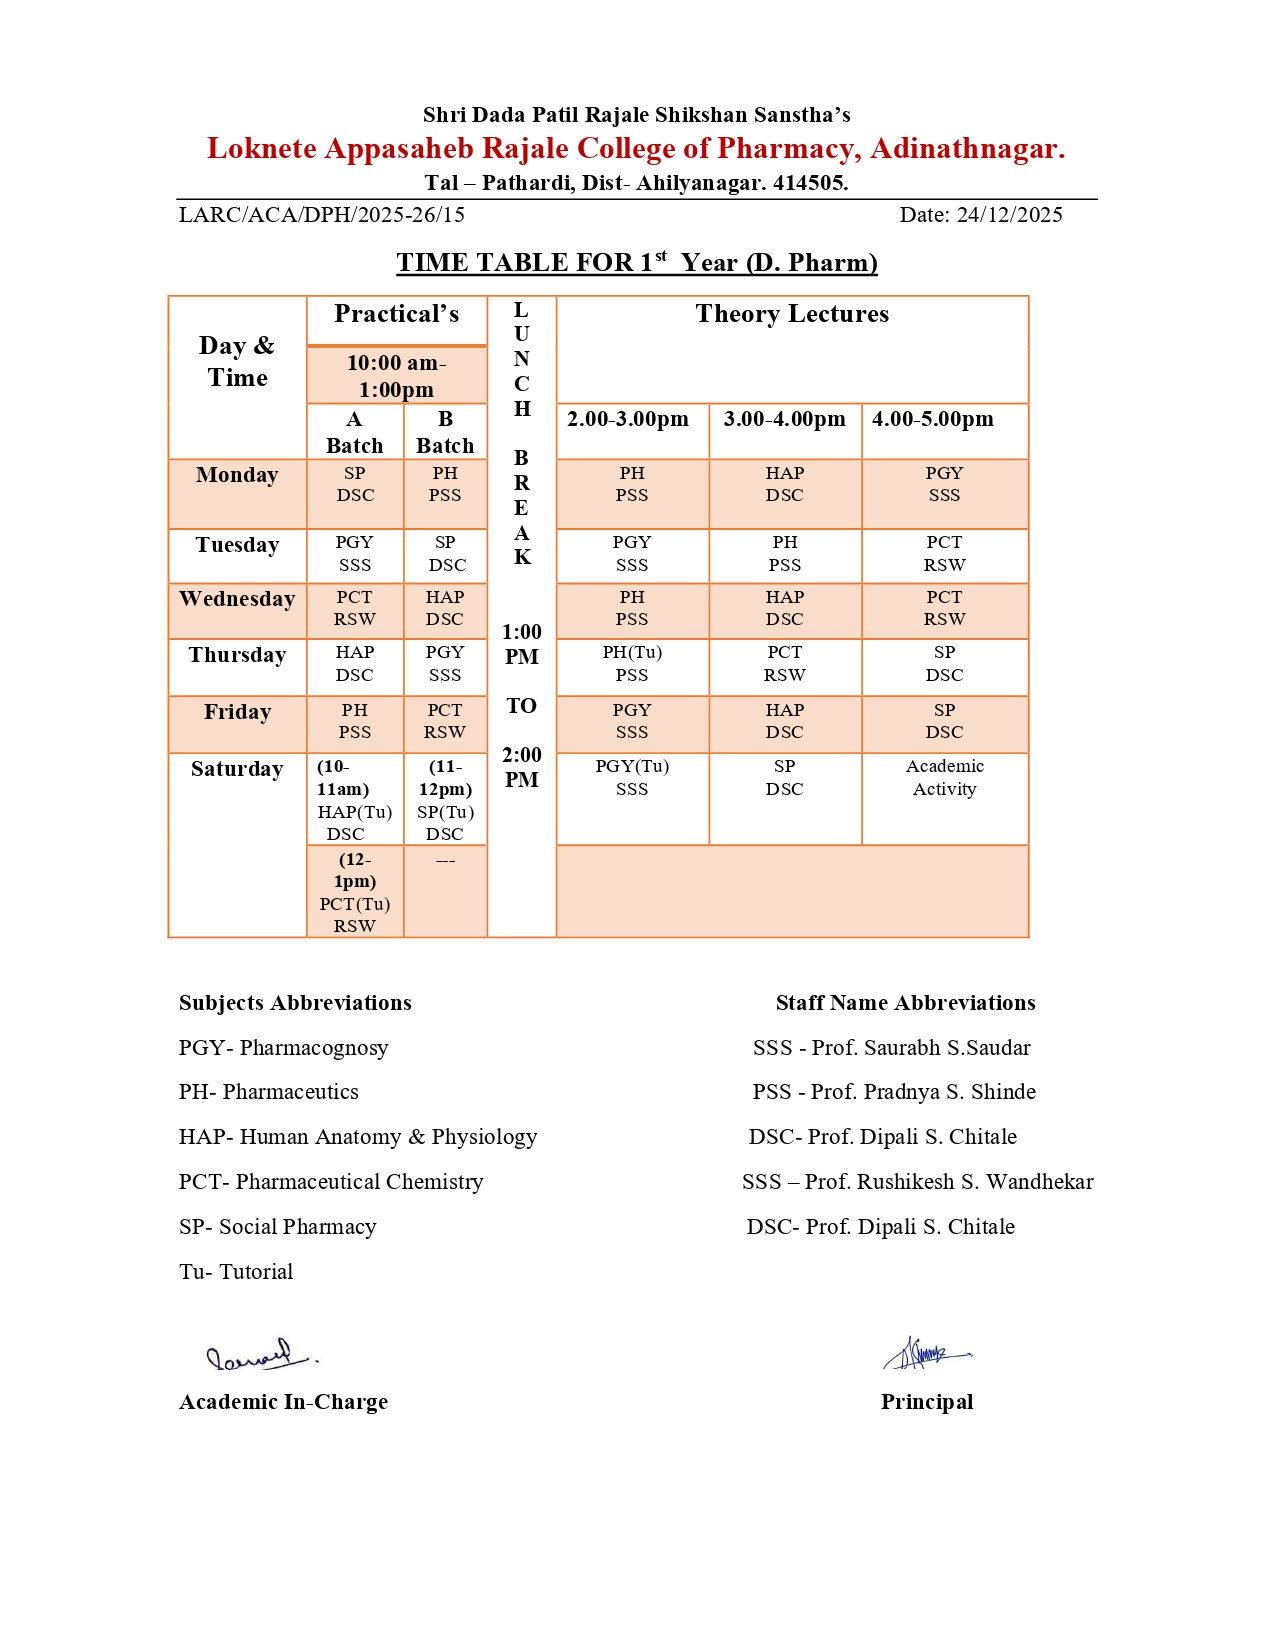
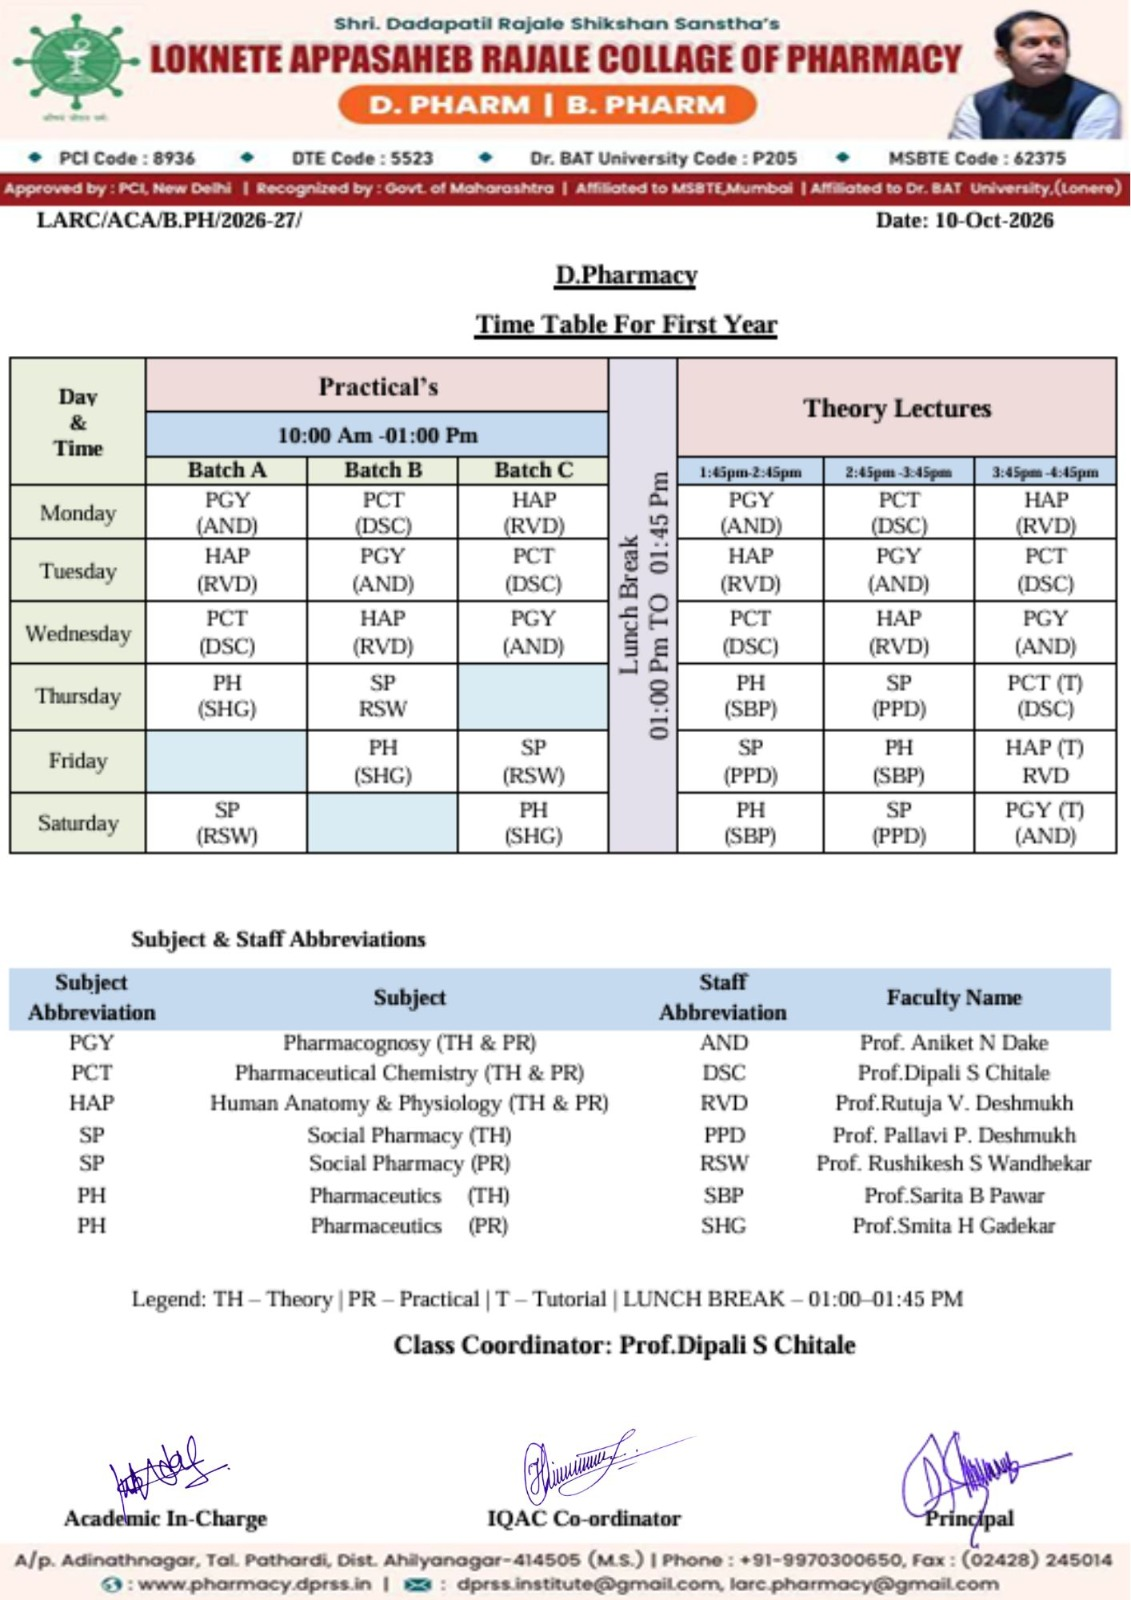
news gallery images added

diff --git a/news-gallery.php b/news-gallery.php
@@ -1,0 +1,139 @@
+<?php include_once("components/header_t.php"); echo '<title>News Gallery - LARCOP</title>'; include_once("components/header_b.php"); ?>
+
+<link rel="stylesheet" href="https://cdn.jsdelivr.net/npm/@fancyapps/ui@5.0/dist/fancybox/fancybox.css" />
+
+<style>
+    /* ── News Gallery page styles ── */
+    .news-gallery-grid {
+        column-count: 4;
+        column-gap: 12px;
+        max-width: 1100px;
+        margin: 0 auto;
+    }
+
+    .news-gallery-item {
+        break-inside: avoid;
+        margin-bottom: 12px;
+        display: block;
+        border-radius: 10px;
+        overflow: hidden;
+        position: relative;
+        box-shadow: 0 2px 8px rgba(0, 0, 0, 0.10);
+        transition: box-shadow 0.3s ease, transform 0.25s ease;
+        background: #eeeeee;
+    }
+
+    .news-gallery-item:hover {
+        box-shadow: 0 8px 24px rgba(0, 0, 0, 0.20);
+        transform: translateY(-3px);
+    }
+
+    .news-gallery-item img {
+        width: 100%;
+        height: auto;
+        display: block;
+        border-radius: 10px;
+        transition: transform 0.35s ease;
+    }
+
+    .news-gallery-item:hover img {
+        transform: scale(1.04);
+    }
+
+    /* zoom icon overlay on hover */
+    .news-gallery-item::after {
+        content: '\f00e';
+        font-family: FontAwesome;
+        font-size: 1.5rem;
+        color: #fff;
+        position: absolute;
+        inset: 0;
+        display: flex;
+        align-items: center;
+        justify-content: center;
+        background: rgba(0, 0, 0, 0);
+        border-radius: 10px;
+        transition: background 0.3s ease;
+        pointer-events: none;
+    }
+
+    .news-gallery-item:hover::after {
+        background: rgba(0, 0, 0, 0.28);
+    }
+
+    /* Responsive breakpoints */
+    @media (max-width: 1152px) {
+        .news-gallery-grid { column-count: 3; }
+    }
+
+    @media (max-width: 768px) {
+        .news-gallery-grid { column-count: 2; }
+    }
+
+    @media (max-width: 500px) {
+        .news-gallery-grid { column-count: 1; }
+    }
+</style>
+
+<section id="js--active-sticky">
+    <div class="container">
+
+        <h2>News Gallery</h2>
+
+        <div class="mb-4">
+            <p>
+                A glimpse of events, activities, and milestones at
+                <strong>Loknete Appasaheb Rajale College of Pharmacy</strong>.
+                Browse through our latest news photos capturing the vibrant campus life.
+            </p>
+        </div>
+
+        <h4 class="mb-3">Photo Gallery</h4>
+
+        <div class="news-gallery-grid">
+            <?php
+                // Auto-load all images from the news-gallery folder
+                $gallery_dir  = __DIR__ . '/college-storage/news-gallery/';
+                $web_base     = '/college-storage/news-gallery/';
+                $allowed_ext  = ['jpg', 'jpeg', 'png', 'webp', 'gif'];
+
+                $files = glob($gallery_dir . '*');
+                if ($files) {
+                    // Natural sort so "1 (2)" comes before "1 (10)" etc.
+                    natsort($files);
+                    $index = 1;
+                    foreach ($files as $file_path) {
+                        $ext = strtolower(pathinfo($file_path, PATHINFO_EXTENSION));
+                        if (!in_array($ext, $allowed_ext)) continue;
+
+                        $filename   = basename($file_path);
+                        $web_path   = $web_base . rawurlencode($filename);
+                        $caption    = 'News Gallery – Photo ' . $index;
+                        $alt        = htmlspecialchars('LARCOP News Gallery Photo ' . $index, ENT_QUOTES);
+                        echo '            <a class="news-gallery-item" data-fancybox="news-gallery" href="' . $web_path . '" data-caption="' . htmlspecialchars($caption, ENT_QUOTES) . '">' . "\n";
+                        echo '                <img src="' . $web_path . '" alt="' . $alt . '" loading="lazy">' . "\n";
+                        echo '            </a>' . "\n";
+                        $index++;
+                    }
+                } else {
+                    echo '<p class="text-muted">No images found.</p>';
+                }
+            ?>
+        </div>
+
+    </div>
+</section>
+
+<script src="https://cdn.jsdelivr.net/npm/@fancyapps/ui@5.0/dist/fancybox/fancybox.umd.js"></script>
+<script>
+    Fancybox.bind("[data-fancybox='news-gallery']", {
+        Toolbar: {
+            display: {
+                left:  ["infobar"],
+                right: ["slideshow", "fullscreen", "thumbs", "close"]
+            }
+        }
+    });
+</script>
+
+<?php include_once('components/footer.php'); ?>

diff --git a/components/header_b.php b/components/header_b.php
@@ -308,18 +308,18 @@
                       <li class="dropdown-header header_li_underline mont">Student Support</li>
                       <li><a href="/women-grievance-redressalcell.php"><i class="fa fa-angle-double-right text-secondary"></i>&nbsp;Women Grievance
                           Committee</a></li>
-                      <li><a href="#"><i class="fa fa-angle-double-right text-secondary"></i>&nbsp;Student Grievance
+                      <li><a target="_blank" href="/college-storage/student-support/Grievance Redressal Committee.pdf"><i class="fa fa-angle-double-right text-secondary"></i>&nbsp;Student Grievance
                           Redressal Committee</a></li>
                       <li><a href="#"><i class="fa fa-angle-double-right text-secondary"></i>&nbsp;Internal Complaint
                           Committee</a></li>
-                      <li><a href="/anti-ragging-committee.php"><i
+                      <li><a target="_blank" href="/college-storage/student-support/Anti Ragging Committee.pdf"><i
                             class="fa fa-angle-double-right text-secondary"></i>&nbsp;Anti-Ragging Cell</a></li>
                       <li><a href="#"><i class="fa fa-angle-double-right text-secondary"></i>&nbsp;Sexual Harassment
                           Committee</a></li>
-                      <li><a href="/anti-discrimination-cell.php"><i
+                      <li><a target="_blank" href="/college-storage/student-support/Anti Discrimination Committee.pdf"><i
                             class="fa fa-angle-double-right text-secondary"></i>&nbsp;Anti-Discrimination Committee</a>
                       </li>
-                      <li><a href="/sc-st.php"><i class="fa fa-angle-double-right text-secondary"></i>&nbsp;SC-ST
+                      <li><a target="_blank" href="/college-storage/student-support/SC ST Committee.pdf"><i class="fa fa-angle-double-right text-secondary"></i>&nbsp;SC-ST
                           Committee</a></li>
                       <li><a target="_blank" href="/college-storage/Green club Committee (GCC).pdf"><i
                             class="fa fa-angle-double-right text-secondary"></i>&nbsp;Green Club Committee</a></li>
@@ -379,7 +379,7 @@
                     Events</a></li>
                 <li><a href="out_reach.php"><i class="fa fa-angle-double-right text-secondary"></i>&nbsp;Outreach
                     Events</a></li>
-                <li><a href="news_gallery.php"><i class="fa fa-angle-double-right text-secondary"></i>&nbsp;News
+                <li><a href="/news-gallery.php"><i class="fa fa-angle-double-right text-secondary"></i>&nbsp;News
                     Gallery</a></li>
               </ul>
             </li>

diff --git a/academic-timetable.php b/academic-timetable.php
@@ -40,12 +40,12 @@ $timetables = [
             'title' => 'Semester III',
             'image' => '/college-storage/academic-timetable/b_pharm/b_pharm_sem3.jpg'
         ],
-        [
-            'id' => 'bpharm-2',
-            'heading' => 'B.Pharm Second Year',
-            'title' => 'Semester IV',
-            'image' => '/college-storage/academic-timetable/b_pharm/b_pharm_sem4.jpg'
-        ],
+        // [
+        //     'id' => 'bpharm-2',
+        //     'heading' => 'B.Pharm Second Year',
+        //     'title' => 'Semester IV',
+        //     'image' => '/college-storage/academic-timetable/b_pharm/b_pharm_sem4.jpg'
+        // ],
         [
             'id' => 'bpharm-3',
             'heading' => 'B.Pharm Third Year',
